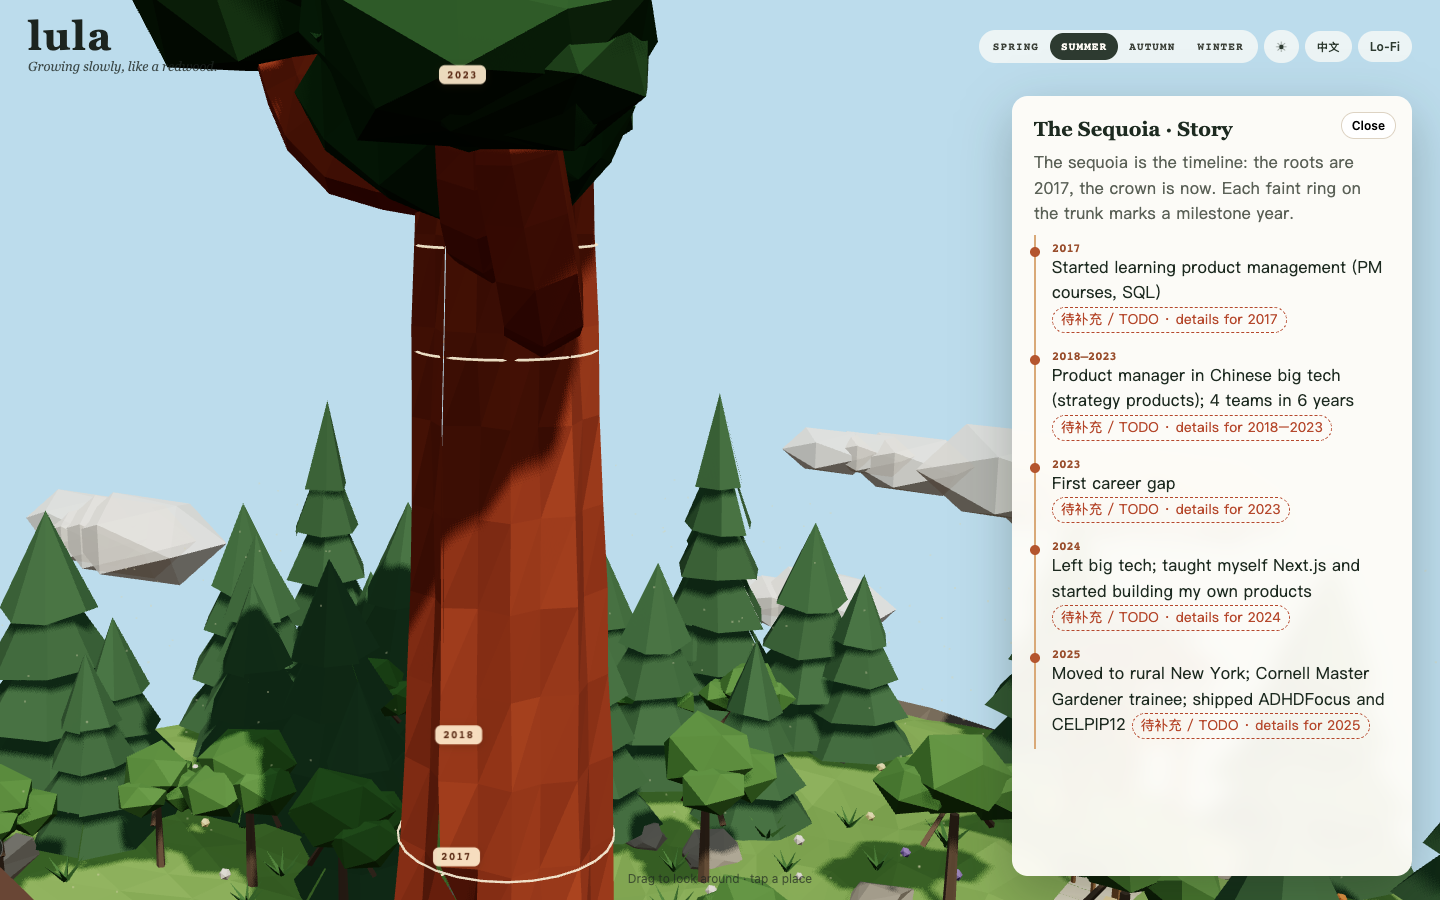
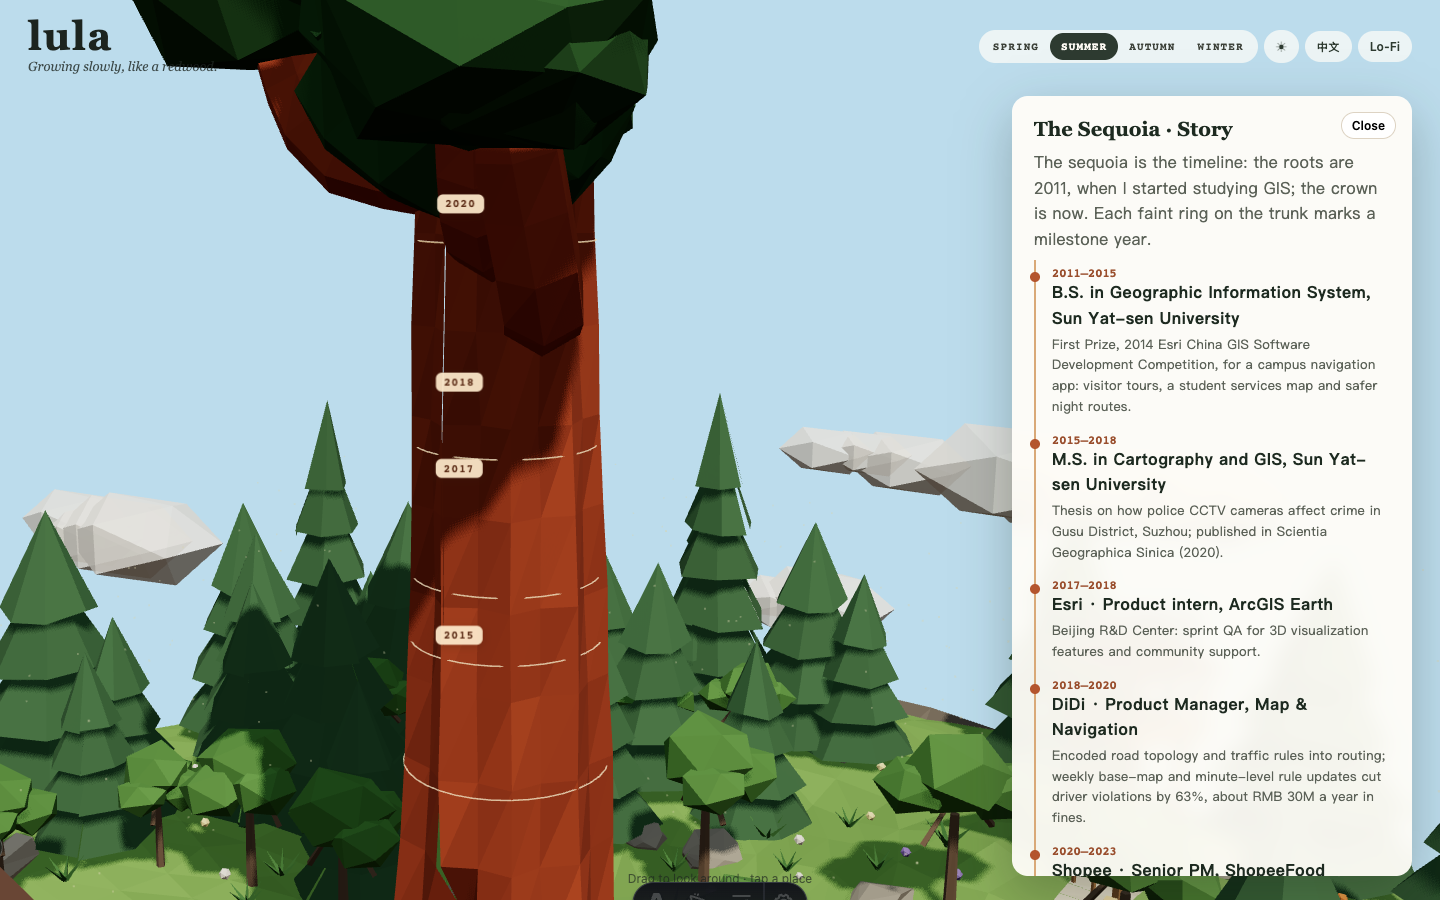
content: timeline from lula's CV, 2011 to now; tree rings follow it

diff --git a/src/data/timeline.ts b/src/data/timeline.ts
@@ -1,17 +1,91 @@
-// Known milestones only (from lula's own posts). Details are left as TODO, never guessed.
+// lula's path, from her CV ("Lu Li · CV (general draft)") and her own blog posts. Nothing here is guessed;
+// anything not in those sources stays out. Each entry becomes a growth ring on the valley's sequoia.
 import type { Lang } from '../lib/i18n';
 
 export interface Milestone {
+  start: number; // the ring's year
   years: string;
-  year: number;
-  text: Record<Lang, string>;
-  detailKnown: boolean;
+  title: Record<Lang, string>;
+  detail: Record<Lang, string>;
 }
 
 export const timeline: Milestone[] = [
-  { years: '2017', year: 2017, text: { zh: '开始学习做产品（产品课程、SQL）', en: 'Started learning product management (PM courses, SQL)' }, detailKnown: false },
-  { years: '2018–2023', year: 2018, text: { zh: '在国内大厂做产品经理，策略产品方向，6 年换过 4 个团队', en: 'Product manager in Chinese big tech (strategy products); 4 teams in 6 years' }, detailKnown: false },
-  { years: '2023', year: 2023, text: { zh: '第一次 gap', en: 'First career gap' }, detailKnown: false },
-  { years: '2024', year: 2024, text: { zh: '离开大厂；自学 Next.js，开始做独立产品', en: 'Left big tech; taught myself Next.js and started building my own products' }, detailKnown: false },
-  { years: '2025', year: 2025, text: { zh: '搬到纽约州乡下；成为 Cornell Master Gardener 学员；上线 ADHDFocus 和 CELPIP12', en: 'Moved to rural New York; Cornell Master Gardener trainee; shipped ADHDFocus and CELPIP12' }, detailKnown: false },
+  {
+    start: 2011,
+    years: '2011–2015',
+    title: { zh: '中山大学 · 地理信息系统 本科', en: 'B.S. in Geographic Information System, Sun Yat-sen University' },
+    detail: {
+      zh: '2014 年 Esri 中国 GIS 软件开发大赛全国一等奖：一款校园导航 App，补上通用地图在校园里的空白——访客导览、学生服务地图、夜间安全路线。',
+      en: 'First Prize, 2014 Esri China GIS Software Development Competition, for a campus navigation app: visitor tours, a student services map and safer night routes.',
+    },
+  },
+  {
+    start: 2015,
+    years: '2015–2018',
+    title: { zh: '中山大学 · 地图学与地理信息系统 硕士', en: 'M.S. in Cartography and GIS, Sun Yat-sen University' },
+    detail: {
+      zh: '论文研究警用监控摄像头对犯罪的影响（苏州姑苏区），2020 年发表于《地理科学》。',
+      en: 'Thesis on how police CCTV cameras affect crime in Gusu District, Suzhou; published in Scientia Geographica Sinica (2020).',
+    },
+  },
+  {
+    start: 2017,
+    years: '2017–2018',
+    title: { zh: 'Esri · ArcGIS Earth 产品实习', en: 'Esri · Product intern, ArcGIS Earth' },
+    detail: { zh: '北京研发中心，3D 可视化功能的迭代测试和用户社区支持。', en: 'Beijing R&D Center: sprint QA for 3D visualization features and community support.' },
+  },
+  {
+    start: 2018,
+    years: '2018–2020',
+    title: { zh: '滴滴出行 · 地图与导航 产品经理', en: 'DiDi · Product Manager, Map & Navigation' },
+    detail: {
+      zh: '把路网拓扑和交通规则编进路径规划，基础路网改为周更、动态图层分钟级更新；司机违章下降 63%，每年少交约 3,000 万元罚款。',
+      en: 'Encoded road topology and traffic rules into routing; weekly base-map and minute-level rule updates cut driver violations by 63%, about RMB 30M a year in fines.',
+    },
+  },
+  {
+    start: 2020,
+    years: '2020–2023',
+    title: { zh: 'Shopee · ShopeeFood 物流策略 高级产品经理', en: 'Shopee · Senior PM, ShopeeFood Logistics Strategy' },
+    detail: {
+      zh: '派单团队的创始成员，从零搭建印尼的订单分配，业务增长到日均 100 万单以上；ETA 预估改为数据模型，5 分钟准确率提升 22%。',
+      en: 'Founding member of the dispatch team: built order assignment for Indonesia from scratch as it grew past 1M daily orders; ETA accuracy +22%.',
+    },
+  },
+  {
+    start: 2023,
+    years: '2023–2024',
+    title: { zh: '携程 · AI 与创新 高级产品经理', en: 'Trip.com · Senior PM, AI & Innovation' },
+    detail: {
+      zh: '为大模型生成的行程搭建评测框架，指导 AI 行程助手的模型迭代；优化 300 万+ POI 数据，减少绕路。',
+      en: 'Built the evaluation framework for LLM-generated itineraries behind the AI Trip Planner; improved 3M+ POIs to cut route detours.',
+    },
+  },
+  {
+    start: 2024,
+    years: '2024',
+    title: { zh: '离开大厂，开始自己做产品', en: 'Left big tech to build my own products' },
+    detail: {
+      zh: '自学 Next.js，做出第一个独立产品；12 月起在 Wild Ones 首府地区分会做志愿者，设计活动海报和本土植物卡片。',
+      en: 'Taught myself Next.js and shipped my first indie product; from December, volunteering with Wild Ones Capital Region on posters and native plant cards.',
+    },
+  },
+  {
+    start: 2025,
+    years: '2025–',
+    title: { zh: '独立 AI 产品顾问 · 植物 · 纽约州', en: 'Independent AI product consultant · plants · upstate New York' },
+    detail: {
+      zh: '为酒店 AI 智能体平台和 B2B 销售 CRM 做产品设计；开始做 iOS 植物 App WildCard；搬到纽约州，9 月成为 Cornell Master Gardener 志愿者。',
+      en: 'Product design for an AI agent platform for hotels and an LLM sales CRM; started WildCard, an iOS plant app; moved to New York and became a Cornell Master Gardener volunteer.',
+    },
+  },
+  {
+    start: 2026,
+    years: '2026',
+    title: { zh: '现在', en: 'Now' },
+    detail: {
+      zh: '在做植物收集 App Floradex 和这个网站。',
+      en: 'Building Floradex, a plant collection app, and this site.',
+    },
+  },
 ];

diff --git a/src/i18n/ui.ts b/src/i18n/ui.ts
@@ -3,7 +3,7 @@ export const ui = {
   en: {
     siteName: 'lula',
     slogan: 'Growing slowly, like a redwood.',
-    intro: 'Six years as a product manager in big tech. Now I build things myself with AI, and I am learning to look after a forest.',
+    intro: 'Trained in GIS, then six years as a product manager in maps, logistics and AI at DiDi, Shopee and Trip.com. Now I build things myself with AI, and I am learning to look after a forest.',
     navHome: 'Home',
     navWriting: 'Writing',
     navProjects: 'Projects',
@@ -42,7 +42,7 @@ export const ui = {
     dayNight: 'Day / night',
     dogNote: 'This is lula’s dog.',
     dogName: 'name',
-    treeIntro: 'The sequoia is the timeline: the roots are 2017, the crown is now. Each faint ring on the trunk marks a milestone year.',
+    treeIntro: 'The sequoia is the timeline: the roots are 2011, when I started studying GIS; the crown is now. Each faint ring on the trunk marks a milestone year.',
     hollowIntro: 'Fire scars like this one are common on old giant sequoias. This one became a tiny cinema.',
     workshopIntro: 'Things I have built.',
     gardenIntro: 'Notes and essays, growing slowly.',
@@ -54,7 +54,7 @@ export const ui = {
   zh: {
     siteName: 'lula',
     slogan: '耐心地，长成一棵大树。',
-    intro: '做过 6 年大厂产品经理，现在用 AI 亲手做东西，也在学着照顾一片森林。',
+    intro: '学地理信息系统出身，在滴滴、Shopee、携程做了 6 年地图、物流和 AI 方向的产品经理。现在用 AI 亲手做东西，也在学着照顾一片森林。',
     navHome: '首页',
     navWriting: '写作',
     navProjects: '项目',
@@ -93,7 +93,7 @@ export const ui = {
     dayNight: '昼 / 夜',
     dogNote: '这是 lula 的狗。',
     dogName: '名字',
-    treeIntro: '这棵巨杉就是时间线：树根是 2017 年，树冠是现在。树干上每一道淡淡的年轮，标记着一个重要的年份。',
+    treeIntro: '这棵巨杉就是时间线：树根是 2011 年开始学地理信息系统的时候，树冠是现在。树干上每一道淡淡的年轮，标记着一个重要的年份。',
     hollowIntro: '老巨杉的树干上常有这样的火烧疤。这一个，变成了一间小小的放映室。',
     workshopIntro: '我亲手做过的东西。',
     gardenIntro: '慢慢生长的笔记和文章。',

diff --git a/tests/unit/timeline-data.test.ts b/tests/unit/timeline-data.test.ts
@@ -1,0 +1,25 @@
+import { describe, expect, test } from 'vitest';
+import { timeline } from '../../src/data/timeline';
+
+describe('timeline (from the CV)', () => {
+  test('runs in order from university in 2011 to now', () => {
+    expect(timeline[0].start).toBe(2011);
+    for (let i = 1; i < timeline.length; i++) expect(timeline[i].start).toBeGreaterThan(timeline[i - 1].start);
+    expect(timeline.at(-1)!.start).toBeGreaterThanOrEqual(2025);
+  });
+
+  test('every entry has a title and a detail in both languages', () => {
+    for (const m of timeline) {
+      for (const lang of ['en', 'zh'] as const) {
+        expect(m.title[lang].length, `${m.start} title ${lang}`).toBeGreaterThan(0);
+        expect(m.detail[lang].length, `${m.start} detail ${lang}`).toBeGreaterThan(0);
+      }
+    }
+  });
+
+  test('no private contact details leak into the timeline', () => {
+    const all = JSON.stringify(timeline);
+    expect(all).not.toMatch(/\d{3}-\d{3}-\d{4}/);
+    expect(all).not.toMatch(/@/);
+  });
+});

diff --git a/tests/e2e/valley-fixes.spec.ts b/tests/e2e/valley-fixes.spec.ts
@@ -127,9 +127,9 @@ test('opening the sequoia reveals the years on its rings as the camera rises', a
   await page.waitForTimeout(800);
   await expect(page.locator('.ring-tag.on')).toHaveCount(0);
   await expect(page.locator('.ring-tag.on').first()).toBeVisible({ timeout: 6000 });
-  expect(await page.locator('.ring-tag.on').count()).toBeLessThan(6);
-  await expect(page.locator('.ring-tag.on')).toHaveCount(6, { timeout: 12_000 });
-  await expect(page.locator('.ring-tag').first()).toHaveText('2017');
+  expect(await page.locator('.ring-tag.on').count()).toBeLessThan(9);
+  await expect(page.locator('.ring-tag.on')).toHaveCount(9, { timeout: 12_000 });
+  await expect(page.locator('.ring-tag').first()).toHaveText('2011');
   await page.keyboard.press('Escape');
   await expect(page.locator('.ring-tag.on')).toHaveCount(0);
 });

diff --git a/src/scenes/valley/sequoia.ts b/src/scenes/valley/sequoia.ts
@@ -13,12 +13,12 @@ export const SEQUOIA = {
   maxOtherTreeHeight: 15,
 };
 
-const FIRST_YEAR = 2017;
+const FIRST_YEAR = 2011;
 const LAST_YEAR = 2026;
-const RING_LOW = 6;
+const RING_LOW = 4;
 const RING_HIGH = 28;
 
-// One ring band per timeline year: the trunk is the timeline, roots are 2017, the crown is now.
+// One ring per timeline entry: the trunk is the timeline, the roots are 2011 (GIS at university), the crown is now.
 export function ringHeightsFor(years: number[]): number[] {
   return years.map((y) => RING_LOW + ((y - FIRST_YEAR) / (LAST_YEAR - FIRST_YEAR)) * (RING_HIGH - RING_LOW));
 }

diff --git a/src/scenes/valley/createValley.ts b/src/scenes/valley/createValley.ts
@@ -61,7 +61,7 @@ export function createValley(canvas: HTMLCanvasElement, labelsEl: HTMLElement, o
   sun.shadow.radius = 3;
   scene.add(hemi, sun);
 
-  const years = timeline.map((m) => m.year).concat(2026).filter((y, i, a) => a.indexOf(y) === i);
+  const years = timeline.map((m) => m.start);
   const sequoia = createSequoia(pal, years);
   scene.add(sequoia.group);
 
